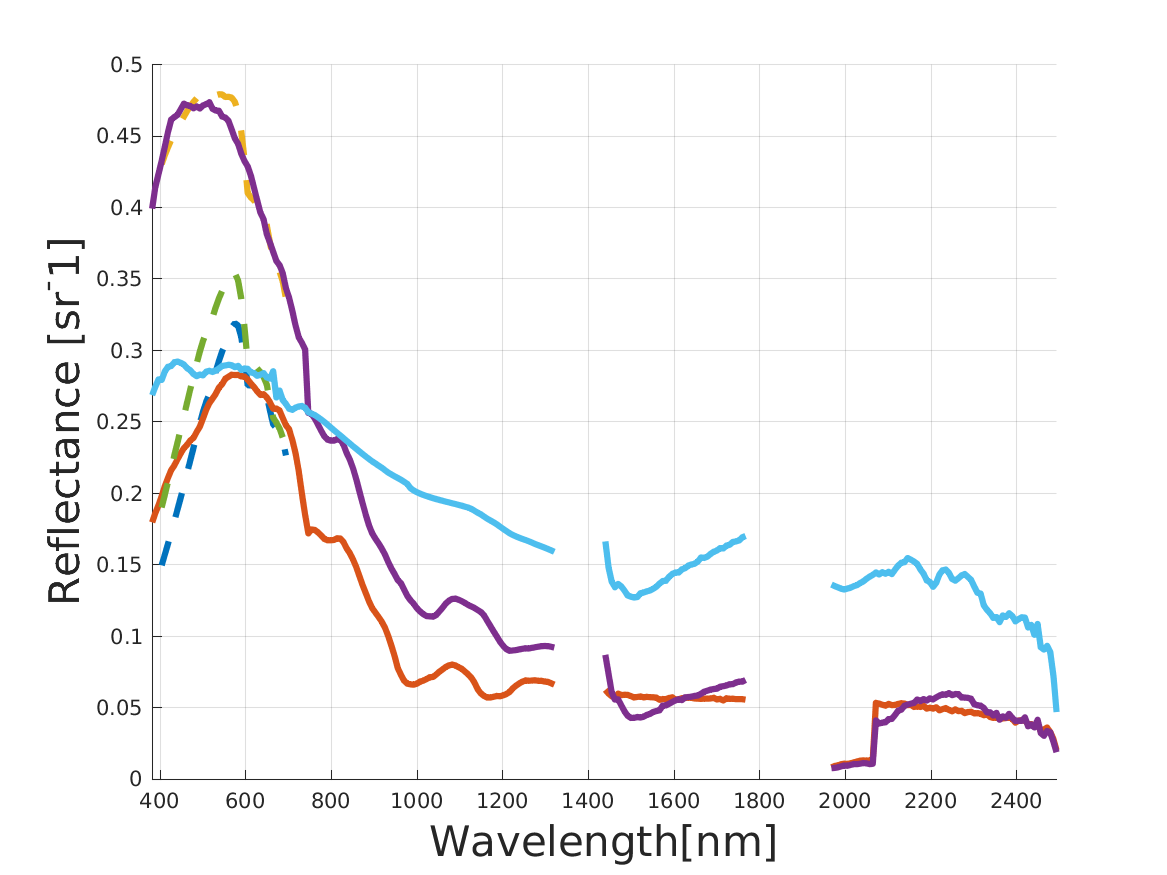
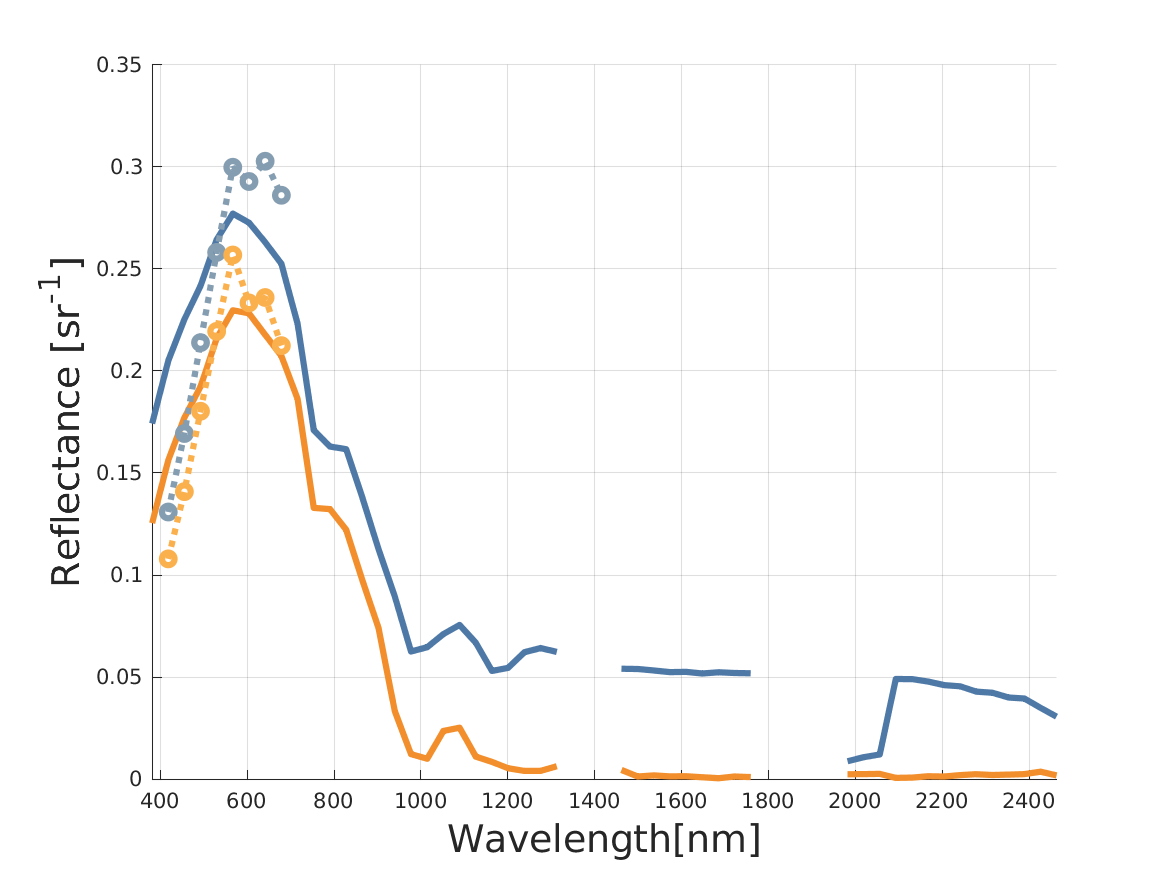
Update Imja plots

diff --git a/main.m b/main.m
@@ -56,20 +56,20 @@ data.pow.sun  = 27.05;
 
 data.im1.label = "Imja 2023-06-05";
 data.im1.data = load('EMIT_L2A_RFL_001_20230605T045030_2315604_004_spectrum.csv').';
-data.im1.data = data.im1.data(:,1:2:3);
+data.im1.data = data.im1.data(1:5:end,1:2:3);  % Take 2nd row from file
 data.im1.view = 7.75;
 data.im1.sun  = 18.9;
 data.im1.colorA = '#4E79A7';
-data.im1.colorB = '#A0CBE8';
+data.im1.colorB = '#849db1';
 
 
 data.im2.label = "Imja 2023-08-31";
 data.im2.data = load('EMIT_L2A_RFL_001_20230831T030641_2324302_015_spectrum.csv').';
-data.im2.data = data.im2.data(:,1:2:3);
+data.im2.data = data.im2.data(1:5:end,1:2:3);  % Take 2nd row from file
 data.im2.view = 8.41;
 data.im2.sun  = 47.76;
 data.im2.colorA = '#F28E2B';
-data.im2.colorB = '#FFBE7D';
+data.im2.colorB = '#FBB04e';
 
 data.im3.label = "Imja 2024-02-27";
 data.im3.data = load('EMIT_L2A_RFL_001_20240227T034910_2405803_005_spectrum.csv').';
@@ -82,20 +82,18 @@ data.im3.colorB = '#8CD17D';
 % Plot data
 figure(1); hold on
 plot(data.im1.data(:,1),data.im1.data(:,2), 'Color', data.im1.colorA, 'Linewidth', 3)
-% plot(data.im1.data(:,1),data.im1.data(:,2), '--', 'Color', data.im1.colorA, 'Linewidth', 2)
-
+% plot(data.im1.data(:,1),data.im1.data(:,2), ':o', 'Color', data.im1.colorB, 'Linewidth', 3)
 plot(data.im2.data(:,1),data.im2.data(:,2), 'Color', data.im2.colorA, 'Linewidth', 3)
-% plot(data.im2.data(:,1),data.im2.data(:,2), '--', 'Color', data.im2.colorA, 'Linewidth', 2)
-
-plot(data.im3.data(:,1),data.im3.data(:,2), 'Color', data.im3.colorA, 'Linewidth', 3)
-% plot(data.im3.data(:,1),data.im3.data(:,2), '--', 'Color', data.im3.colorA, 'Linewidth', 2); grid on
+% plot(data.im2.data(:,1),data.im2.data(:,2), ':o', 'Color', data.im2.colorB, 'Linewidth', 3)
+% plot(data.im3.data(:,1),data.im3.data(:,2), 'Color', data.im3.colorA, 'Linewidth', 3)
+% plot(data.im3.data(:,1),data.im3.data(:,2), '--', 'Color', data.im3.colorB, 'Linewidth', 3); grid on
 % title('Remote Sensing Reflectance','FontSize', 24)
 xlabel('Wavelength[nm]','FontSize', 18)
 ylabel('Reflectance [sr^-^1]','FontSize', 18)
-legend (data.im1.label, data.im2.label, data.im3.label)
+legend (data.im1.label, data.im2.label)
 
 % TODO: remove, just adding a legend since the for loop legend didn't work
-% legend([data.im1.label + " Observed" data.im1.label + " GLAMBioLith" data.im2.label + " Observed" data.im2.label + " GLAMBioLith" data.im3.label + " Observed" data.im3.label + " GLAMBioLith"])
+% legend([data.im1.label + " Observed" data.im1.label + " GLAMBioLith" data.im2.label + " Observed" data.im2.label + " GLAMBioLith"])
 
 xlim([data.im1.data(1,1) data.im1.data(end,1)])
 print('raw', '-dpng');
@@ -108,7 +106,7 @@ figure(2)
 %% 0) Choose data for this MCMC run
 % d = data.im2;
 
-for d = [data.im1 data.im2 data.im3] 
+for d = [data.im1 data.im2] 
 
 %% 1) Global Variables
 
@@ -448,9 +446,9 @@ switch FW_mode_only
         % figure(6)
         hold on
         grid on
-        plot(d.data(:,1),d.data(:,2), 'Color', d.colorA, 'Linewidth', 3);
-        plot(lambda, Rrs_B, '--', 'Color', d.colorB, 'Linewidth', 4);
-        
+        h=plot(d.data(:,1),d.data(:,2), 'Color', d.colorA, 'Linewidth', 3);
+        plot(lambda, Rrs_B, ':o', 'Color', d.colorB, 'Linewidth', 3);
+        uistack(h, "bottom")
         % title('Remote Sensing Reflectance','FontSize', 24)
         xlabel('Wavelength[nm]','FontSize', 18)
         ylabel('Reflectance [sr^-^1]','FontSize', 18)
@@ -478,8 +476,6 @@ switch FW_mode_only
         ylabel('Rrs [1/sr]','FontSize', 20)
         xlim([lambda(1) lambda(end)])
 end
-% legend for hold fig (TODO: fix)
 end
-
 %%
 %-------------------------------------------------------------------------
